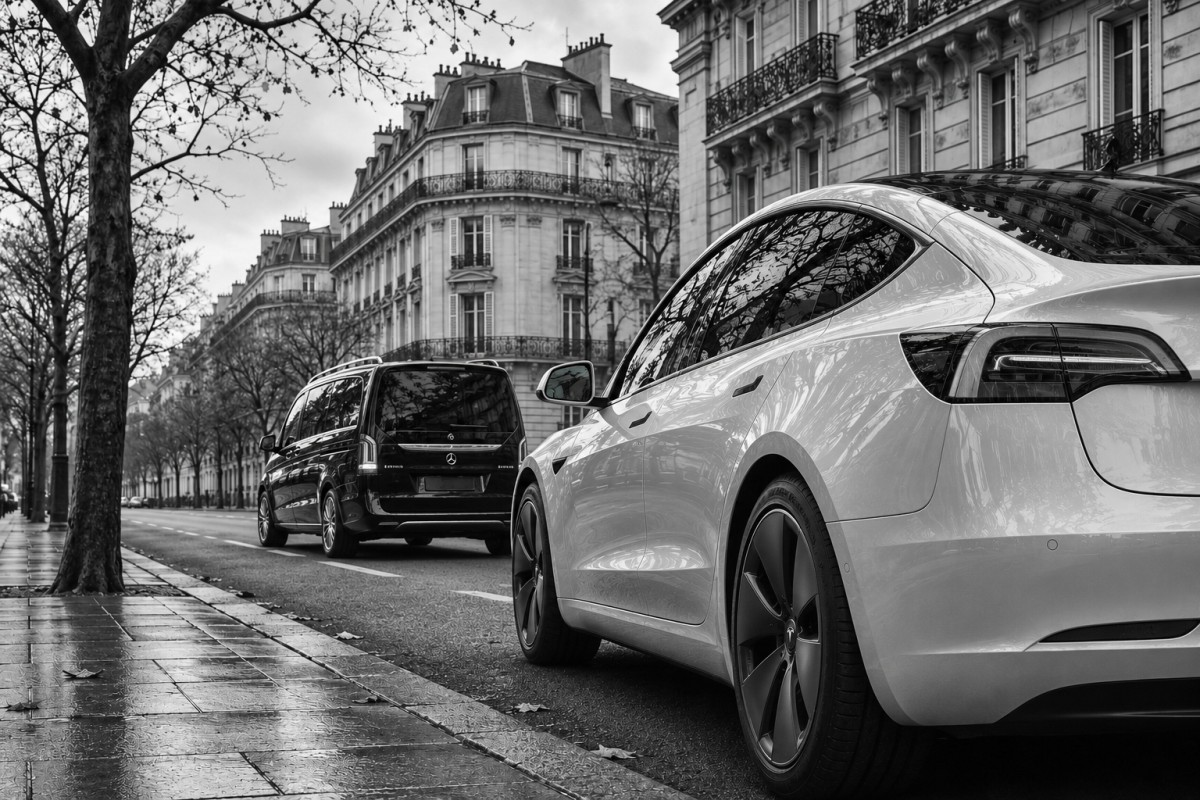
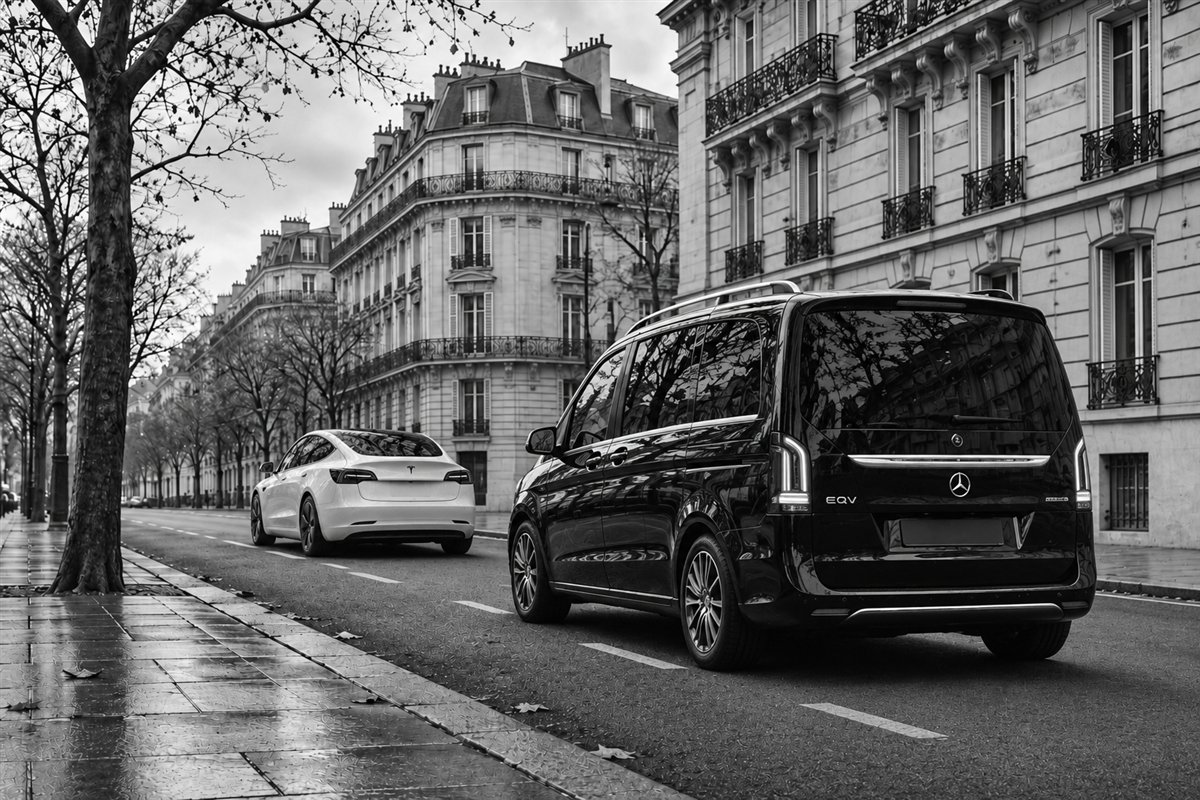
Refresh the Paris fleet photograph (MS-018)

diff --git a/backlog/tasks/ms-018 - Refresh-the-Paris-fleet-photograph.md b/backlog/tasks/ms-018 - Refresh-the-Paris-fleet-photograph.md
@@ -1,0 +1,58 @@
+---
+id: MS-018
+title: Refresh the Paris fleet photograph
+status: Done
+assignee: []
+created_date: '2026-11-21 22:46'
+completed_date: '2026-11-21T22:46:41.325Z'
+labels: []
+dependencies: []
+modified_files:
+  - public/paris-fleet.jpg
+ordinal: 25000
+---
+
+## Description
+
+<!-- SECTION:DESCRIPTION:BEGIN -->
+Replaced the shared 1200 by 800 fleet JPEG with the white Tesla leading a black Mercedes EQV on a Paris street. Retained the existing framing format and monochrome treatment.
+<!-- SECTION:DESCRIPTION:END -->
+
+## Current Checkpoint
+
+<!-- SECTION:CURRENT_CHECKPOINT:BEGIN -->
+```yaml
+done: >-
+  Replaced the shared 1200 by 800 fleet JPEG with the white Tesla leading a
+  black Mercedes EQV on a Paris street. Retained the existing framing format and
+  monochrome treatment.
+next: None. The work is recorded as finished.
+latestChange: >-
+  Replaced the shared 1200 by 800 fleet JPEG with the white Tesla leading a
+  black Mercedes EQV on a Paris street. Retained the existing framing format and
+  monochrome treatment.
+evidence:
+  - public/paris-fleet.jpg
+affectedFiles:
+  - public/paris-fleet.jpg
+```
+<!-- SECTION:CURRENT_CHECKPOINT:END -->
+
+## Work Checkpoints
+
+<!-- SECTION:WORK_CHECKPOINTS:BEGIN -->
+- [x] #result Refresh the Paris fleet photograph
+  Evidence: ["public/paris-fleet.jpg"]
+<!-- SECTION:WORK_CHECKPOINTS:END -->
+
+## Implementation Notes
+
+<!-- SECTION:NOTES:BEGIN -->
[1 lines of base64/hex data omitted]
+<!-- SECTION:NOTES:END -->
+
+## Final Summary
+
+<!-- SECTION:FINAL_SUMMARY:BEGIN -->
+Replaced the shared 1200 by 800 fleet JPEG with the white Tesla leading a black Mercedes EQV on a Paris street. Retained the existing framing format and monochrome treatment.
+<!-- SECTION:FINAL_SUMMARY:END -->
